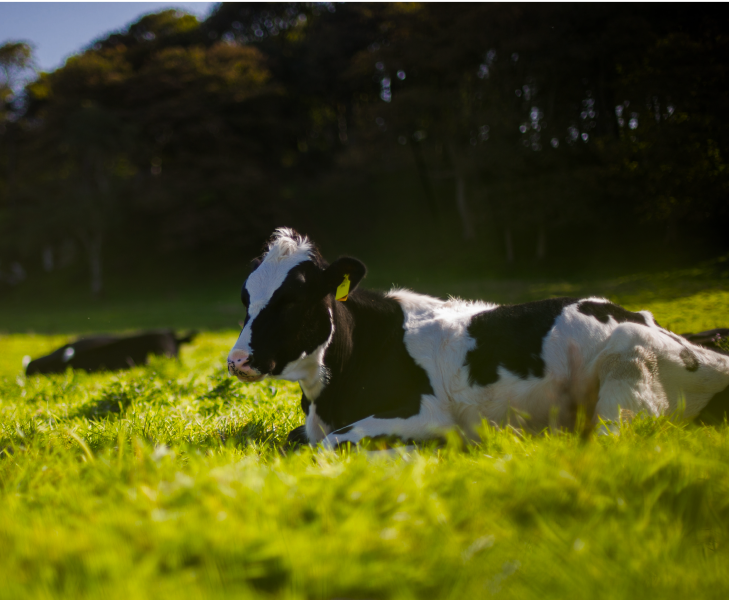
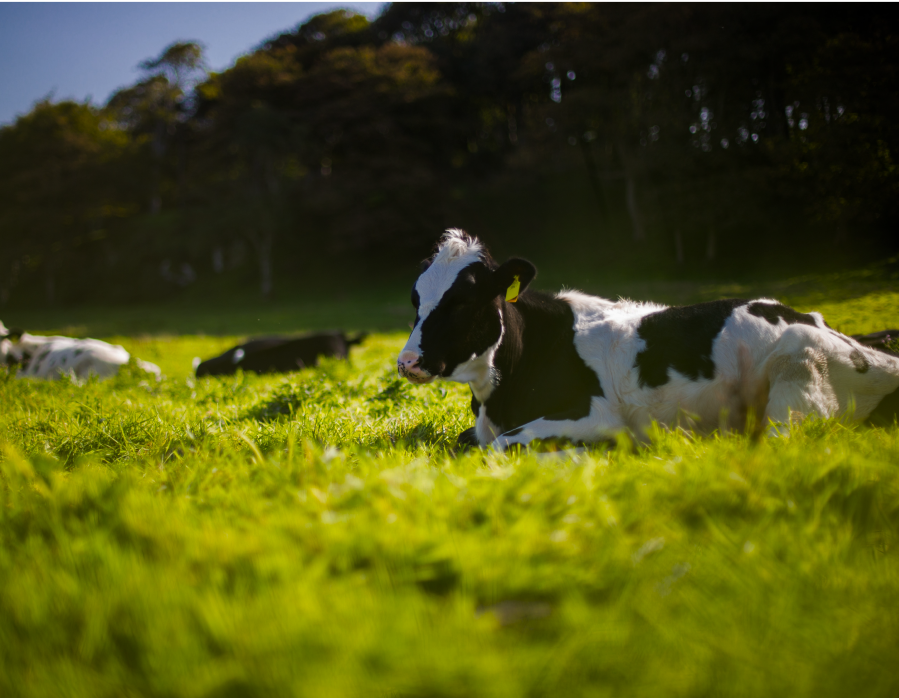
portfolio_day10

diff --git a/Portfolio_selex/brand.html b/Portfolio_selex/brand.html
@@ -12,6 +12,7 @@
     <script  defer src="js/main_1.js"></script>
 </head>
 <body>
+
     <header id="header">
         <div class="header_wrap">
             <h1>
@@ -71,9 +72,9 @@
                 <main> 
                     <div class="img_box">
                         <img src="img/cow.png" alt="들판의 소 이미지">
-                        <img src="img/friendship.png" alt="들판의 소 이미지">
-                        <img src="img/selex_product.png" alt="들판의 소 이미지">
-                        <img src="img/wheat.png" alt="들판의 소 이미지">
+                        <img src="img/friendship.png" alt="친구들이 어깨동무하고 있는 사진">
+                        <img src="img/selex_product.png" alt="셀렉스 프로틴 이미지">
+                        <img src="img/wheat.png" alt="들판 풍경이미지">
                     </div>
                 </main>
                 <footer id="mega_footer">
@@ -99,9 +100,9 @@
         <section class="content_1">
             <div class="content_wrap">
                 <div class="text_wrap">
-                    <h5>SELEX STORY<span></span></h5>
+                    <p>SELEX STORY<span></span></p>
                     <h2>PRINCIPLE<br> OF <br> SELEX</h2>
-                    <h5 class="font_k">건강한 정신은 건강한 몸에서 비롯된다는 가치 <br> 그 가치를 지키위한 셀렉스의 원칙</h5>
+                    <p class="font_k">건강한 정신은 건강한 몸에서 비롯된다는 가치 <br> 그 가치를 지키위한 셀렉스의 원칙</p>
                 </div>
             </div>
         </section><!-- ! .content_1 END -->
@@ -109,27 +110,27 @@
             <div class="content_wrap flex">
                 <div class="img_wrap"><img src="img/protein_shake.png" alt="프로틴 음료를 마시는 남자"></div>
                 <div class="text_wrap">
-                    <h2 class="font_k">영양<span class="module_span">nutrition</span></h2>
-                    <h5 class="font_k">언제 어디서든 간편하게 섭취 가능하며
+                    <h3 class="font_k">영양<span class="module_span">nutrition</span></h3>
+                    <p class="font_k">언제 어디서든 간편하게 섭취 가능하며
                         진정성을 갖고 좋은 원료로 만든 영양이 풍부한 
                         제품을 소비자들에게 합리적인 가격과 믿을 수 있는 
-                        제품으로 제공하겠다는 원칙</h5>
+                        제품으로 제공하겠다는 원칙</p>
                 </div>
             </div>
         </section><!-- ! content2 END -->
         <section class="content_3">
             <div class="content_wrap flex">
                 <div class="text_wrap">
-                    <h2 class="font_k">끊임없는 연구<span class="module_span">constant research
+                    <h3 class="font_k">끊임없는 연구<span class="module_span">constant research
                     </span></h2>
-                    <h5 class="font_k"> 제품의 신뢰성 향상을 위해서 끊임없이 연구하고 개발하여 
+                    <p class="font_k"> 제품의 신뢰성 향상을 위해서 끊임없이 연구하고 개발하여 
                         고객들에게 안전하고 만족할 수 있는 제품을 제공하며 
                         새로운 영역으로의 확장과 끊임없는 연구로 
                         새로운 식문화를 창조하고 선도하겠다는원칙
-                        </h5>
+                        </p>
                 </div>
                 <div class="img_wrap">
-                    <img src="img/food_research .png" alt="연구하는 남자">
+                    <img src="img/food_research.png" alt="연구하는 남자">
                 </div>
             </div>
         </section>
@@ -140,11 +141,11 @@
                     <img src="img/sustainbility.png" alt="풍력발전기가 돌아가는 풍경">
                 </div>
                 <div class="text_wrap">
-                    <h2 class="font_k">지속가능성<span class="module_span">sustainability</span></h2>
-                    <h5 class="font_k">내일을 생각하고 환경파괴없는 유가공업를 만들 뿐만 아니라 
+                    <h3 class="font_k">지속가능성<span class="module_span">sustainability</span></h3>
+                    <p class="font_k">내일을 생각하고 환경파괴없는 유가공업를 만들 뿐만 아니라 
                         대체제에 대한 지속적인 관심과 연구를 하여서 미래에도 안전하면서
                         환경파괴도 없는 우유를 대체할만한 식품에 대하여도 메일유업이 선도하여
-                        새로운 식문화와 유제품의 변화를 이끌겠다는 원칙</h5>
+                        새로운 식문화와 유제품의 변화를 이끌겠다는 원칙</p>
                 </div>
             </div>
 

diff --git a/Portfolio_selex/css/sub.css b/Portfolio_selex/css/sub.css
@@ -18,18 +18,21 @@ article{
     transform: translateY(25px);
 }
 .content_1 .content_wrap .text_wrap{
-    width: 360px;
+    width: 380px;
     position: absolute;
     top: 30%;
     right: 10%;
     font-size: 40px;
     color: white;
 }
-.content_1 .content_wrap .text_wrap h5{
+.content_1 .content_wrap .text_wrap p{
     font-size: 20px;
     color: rgba(255, 255,255, 0.7);
 }
-.content_1 .content_wrap .text_wrap h5 span{
+.content_1 .content_wrap .text_wrap p:nth-of-type(2){
+    font-size: 17px;
+}
+.content_1 .content_wrap .text_wrap p span{
     display: inline-block;
     margin-left: 10px;
     margin-bottom: 6px;
@@ -37,11 +40,11 @@ article{
     height: 2px;
     background: rgba(255, 255, 255, 0.7);
 }
-.content_1 .content_wrap .text_wrap h5.font_k{
+.content_1 .content_wrap .text_wrap p.font_k{
     font-weight: 500;
 }
-.content_1 .content_wrap .text_wrap h2,
-.content_1 .content_wrap .text_wrap h5{
+.content_1 .content_wrap .text_wrap p,
+.content_1 .content_wrap .text_wrap h2{
     margin-bottom: 10px;
 }
 /* ! content_1 END */
@@ -54,13 +57,17 @@ article{
     width: 100%;
     margin-bottom: 150px;
 }
+.content_2 .content_wrap .img_wrap img{
+    box-shadow: 0 0 10px 5px rgba(0, 0, 0, 0.3);
+}
+
 .content_2 .content_wrap .text_wrap{
     margin-top: 20px;
     width: 430px;
     margin-left: 30px;
     word-break: keep-all;
 }
-.content_2 .content_wrap .text_wrap h2{
+.content_2 .content_wrap .text_wrap h3{
     font-size: 50px;
     margin-bottom: 10px;
 }
@@ -70,8 +77,9 @@ span.module_span{
     color: #5f5f5f;
     margin: 5px;
 }
-.content_2 .content_wrap .text_wrap h5{
+.content_2 .content_wrap .text_wrap p{
     font-size: 20px;
+    
 }
 
 /* ! content_2 END */
@@ -89,12 +97,15 @@ span.module_span{
     margin-top: 20px;
     word-break: keep-all;
 }
-.content_3 .content_wrap .text_wrap h2{
+.content_3 .content_wrap .text_wrap h3{
     font-size: 40px;
     margin-bottom: 10px;
 }
-.content_3 .content_wrap .text_wrap h5{
+.content_3 .content_wrap .text_wrap p{
     font-size: 20px;
+}
+.content_3 .content_wrap .img_wrap img{
+    box-shadow: 0 0 10px 5px rgba(0, 0, 0, 0.3);
 }
 /* !content_3 END */
 
@@ -104,19 +115,26 @@ span.module_span{
 }
 .content_4 .content_wrap{
     width: 100%;
-    margin-bottom: 150px;
+    margin-bottom: 250px;
+}
+.content_4 .content_wrap .img_wrap img{
+    box-shadow: 0 0 10px 5px rgba(0, 0, 0, 0.3);
 }
 .content_4 .content_wrap .text_wrap{
     width: 430px;
     margin-top: 10px;
     word-break: keep-all;
 }
-.content_4 .content_wrap .text_wrap h2{
+.content_4 .content_wrap .text_wrap h3{
     font-size: 50px;
+    margin-bottom: 10px;
 }
-.content_4 .content_wrap .text_wrap h5{
+.content_4 .content_wrap .text_wrap p{
     font-size: 20px;
+    font-weight: 500;
 }
+
+/* ! ------------------------- brand_page END */
 
 
 

diff --git a/Portfolio_selex/index.html b/Portfolio_selex/index.html
@@ -22,7 +22,7 @@
 					</h1>
 					<nav>
 						<ul class="gnb">
-							<li><a href="#">Brand</a></li>
+							<li><a href="brand.html">Brand</a></li>
 							<li>
 								<a href="#">Value<i class="fa-solid fa-angle-down"></i></a>
 								 <ul class="sub font_k">
@@ -71,9 +71,9 @@
 						<main> 
 							<div class="img_box">
 								<img src="img/cow.png" alt="들판의 소 이미지">
-								<img src="img/friendship.png" alt="들판의 소 이미지">
-								<img src="img/selex_product.png" alt="들판의 소 이미지">
-								<img src="img/wheat.png" alt="들판의 소 이미지">
+								<img src="img/friendship.png" alt="친구들이 어깨 동무하는 사진">
+								<img src="img/selex_product.png" alt="셀렉스 프로틴 이미지">
+								<img src="img/wheat.png" alt="들판풍경 이미지">
 							</div>
 						</main>
 						<footer id="mega_footer">

diff --git a/Portfolio_selex/css/main.css b/Portfolio_selex/css/main.css
@@ -236,14 +236,17 @@ video{
     height: 300px;
 }
 .mega_menu main{
-    position: absolute;
+    position: absolute; 
+    width: 46%;
+    min-width: 600px;
+    overflow: hidden;
     top: 15%;
     right: 0;
 }
 .mega_menu main .img_box{
-    width:730px;
-    height:600px;
     position: relative;
+    width: 900px;
+    height:700px;
 }
 .mega_menu main .img_box img{
     position: absolute;

diff --git a/Portfolio_selex/css/common.css b/Portfolio_selex/css/common.css
@@ -235,12 +235,15 @@ font-family: 'Open Sans', sans-serif;
 }
 .mega_menu main{
     position: absolute;
+    width: 46%;
+    min-width: 600px;
+    overflow: hidden;
     top: 15%;
     right: 0;
 }
 .mega_menu main .img_box{
-    width:730px;
-    height:600px;
+    width: 900px;
+    height:700px;
     position: relative;
 }
 .mega_menu main .img_box img{

diff --git a/Portfolio_selex/js/main_1.js b/Portfolio_selex/js/main_1.js
@@ -20,6 +20,7 @@ $(function(){
     $("#header .header_wrap .hamburger").click(function(){
         $("#header .header_wrap .hamburger>span").toggleClass("on");
         $(".mega_menu").toggleClass("active");
+        $("body").toggleClass("mega");
         
     });
 });
